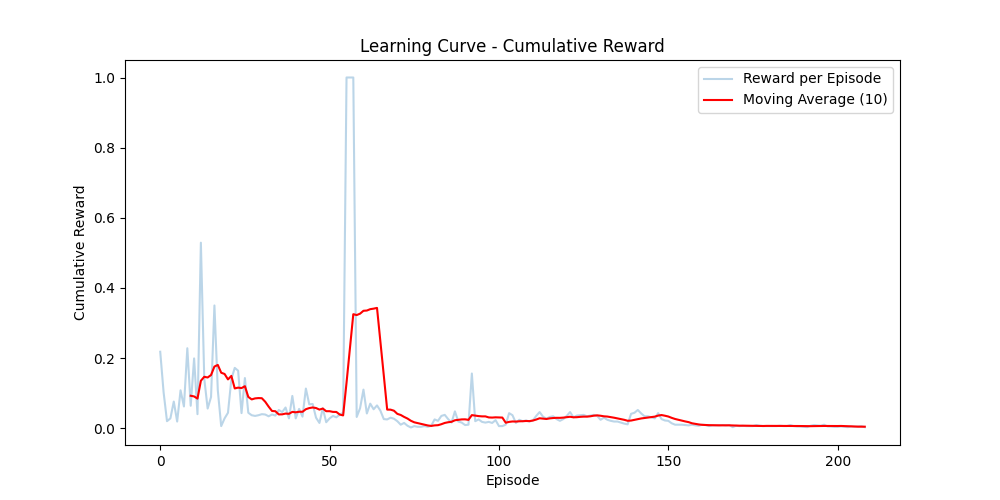
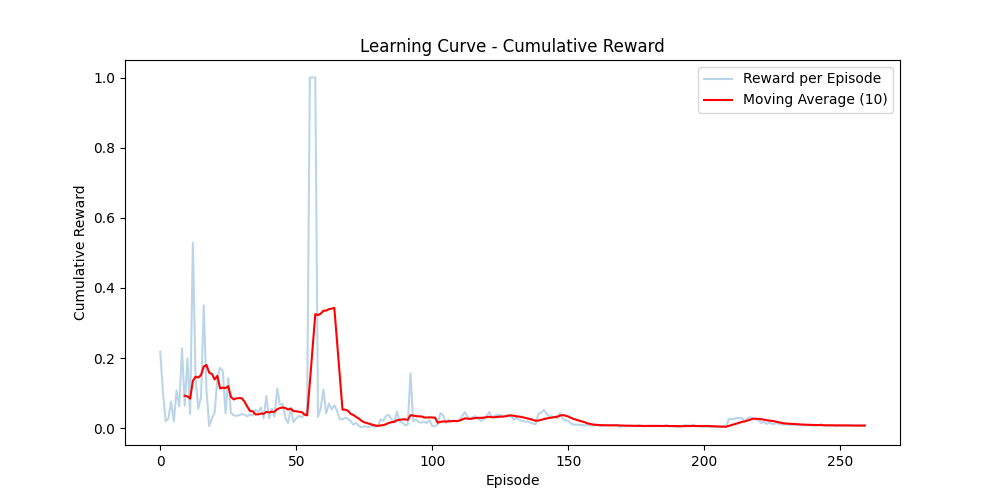
Вынес REINFORCE награды в конфиг и добавил +5 за каждый клик

diff --git a/agent.py b/agent.py
@@ -99,7 +99,7 @@ class CNNPolicy(BasePolicy):
     def __init__(self, config: RLConfig):
         super().__init__(config)
         self.model = CNNModel(self.config)
-        self.optimizer = torch.optim.Adam(self.model.parameters(), lr=self.config.LEARNING_RATE)
+        self.optimizer = torch.optim.Adam(self.model.parameters(), lr=self.config.OPTIMAIZER_LEARNING_RATE)
         
     def get_action(self, state: np.ndarray) -> int:
         state_permuted = torch.as_tensor(state, dtype=torch.float32).permute(0, 3, 1, 2)
@@ -132,7 +132,35 @@ class DummyTrainer(BaseTrainer):
 class ReinforceTrainer(BaseTrainer):
     def train_step(self, batch_of_trajectories) -> None:
         # TODO: Реализация REINFORCE (Vanilla Policy Gradient)
-        pass
+        # trajectory[t] = (state, action, reward)
+        self.policy.optimizer.zero_grad()
+        batch_loss = []
+
+        for traj in batch_of_trajectories:
+            states, actions, rewards = zip(*traj)
+            
+            states_tensor = torch.as_tensor(np.array(states), dtype=torch.float32)
+            states_tensor = states_tensor.permute(0, 1, 4, 2, 3).reshape(len(states), -1, 84, 84)
+            
+            actions_tensor = torch.as_tensor(actions, dtype=torch.int64)
+            
+            logits = self.policy.model(states_tensor)
+            distribution = torch.distributions.Categorical(logits=logits)
+            
+            log_probs = distribution.log_prob(actions_tensor) 
+
+            G = 0
+            for t, r in enumerate(rewards):
+                G += (self.config.GAMMA ** t) * r
+            
+            traj_loss = -G * log_probs.sum()
+            batch_loss.append(traj_loss)
+
+        total_loss = torch.stack(batch_loss).mean()
+        
+        total_loss.backward()
+        self.policy.optimizer.step()
+        
 
 class ReinforceBaselineTrainer(BaseTrainer):
     def train_step(self, batch_of_trajectories) -> None:

diff --git a/env.py b/env.py
@@ -171,7 +171,7 @@ class GameSimEnvironment(gym.Env):
         self._save_debug_frames(state)
         return state
         
-    def _get_episode_status(self):
+    def _get_episode_status(self, action: int = 0):
         """Парсит реальный Play state (Game Over) и монеты."""
         try:
             terminal_state = self.page.locator("#gameover-overlay").is_visible()
@@ -181,7 +181,13 @@ class GameSimEnvironment(gym.Env):
             terminal_state = False
             coins = 0
 
+        # Базовая награда за выживание (за каждый кадр)
         reward = self.config.REWARD_PER_FRAME
+        
+        # Дополнительная награда за действие "клик"
+        if action == 1:
+            reward += self.config.REWARD_PER_CLICK
+            
         truncated = self.t >= self.config.TIME_HORIZON
         info = {"coins": coins}
         return reward, terminal_state, truncated, info
@@ -207,7 +213,7 @@ class GameSimEnvironment(gym.Env):
         next_frame = self._capture_screenshot(pre_fetched_b64=b64_str)
         self.frame_buffer.append(next_frame)
         
-        reward, terminal_state, truncated, info = self._get_episode_status()
+        reward, terminal_state, truncated, info = self._get_episode_status(action)
         state = self._get_observation()
         
         return state, reward, terminal_state, truncated, info
@@ -232,7 +238,7 @@ class GameSimEnvironment(gym.Env):
         next_frame = self._capture_screenshot(pre_fetched_b64=b64_str)
         self.frame_buffer.append(next_frame)
         
-        reward, terminal_state, truncated, info = self._get_episode_status()
+        reward, terminal_state, truncated, info = self._get_episode_status(action)
         state = self._get_observation()
         
         return state, reward, terminal_state, truncated, info

diff --git a/rl_config.py b/rl_config.py
@@ -39,12 +39,15 @@ class RLConfig:
     GAMMA = 0.99
     TRAJECTORIES_PER_BATCH = 10
     
+    OPTIMAIZER_LEARNING_RATE = 1e-4
+    
     # ── Saving & Loading ──
     LOAD_FROM_CHECKPOINT = True
     WEIGHTS_DIR = "weights_dir"
     
     # ── Rewards ──
-    REWARD_PER_FRAME = 0.001
+    REWARD_PER_FRAME = 0.1
+    REWARD_PER_CLICK = 5.0
     
     # ── Debugging ──
     SAVE_DEBUG_FRAMES = True
